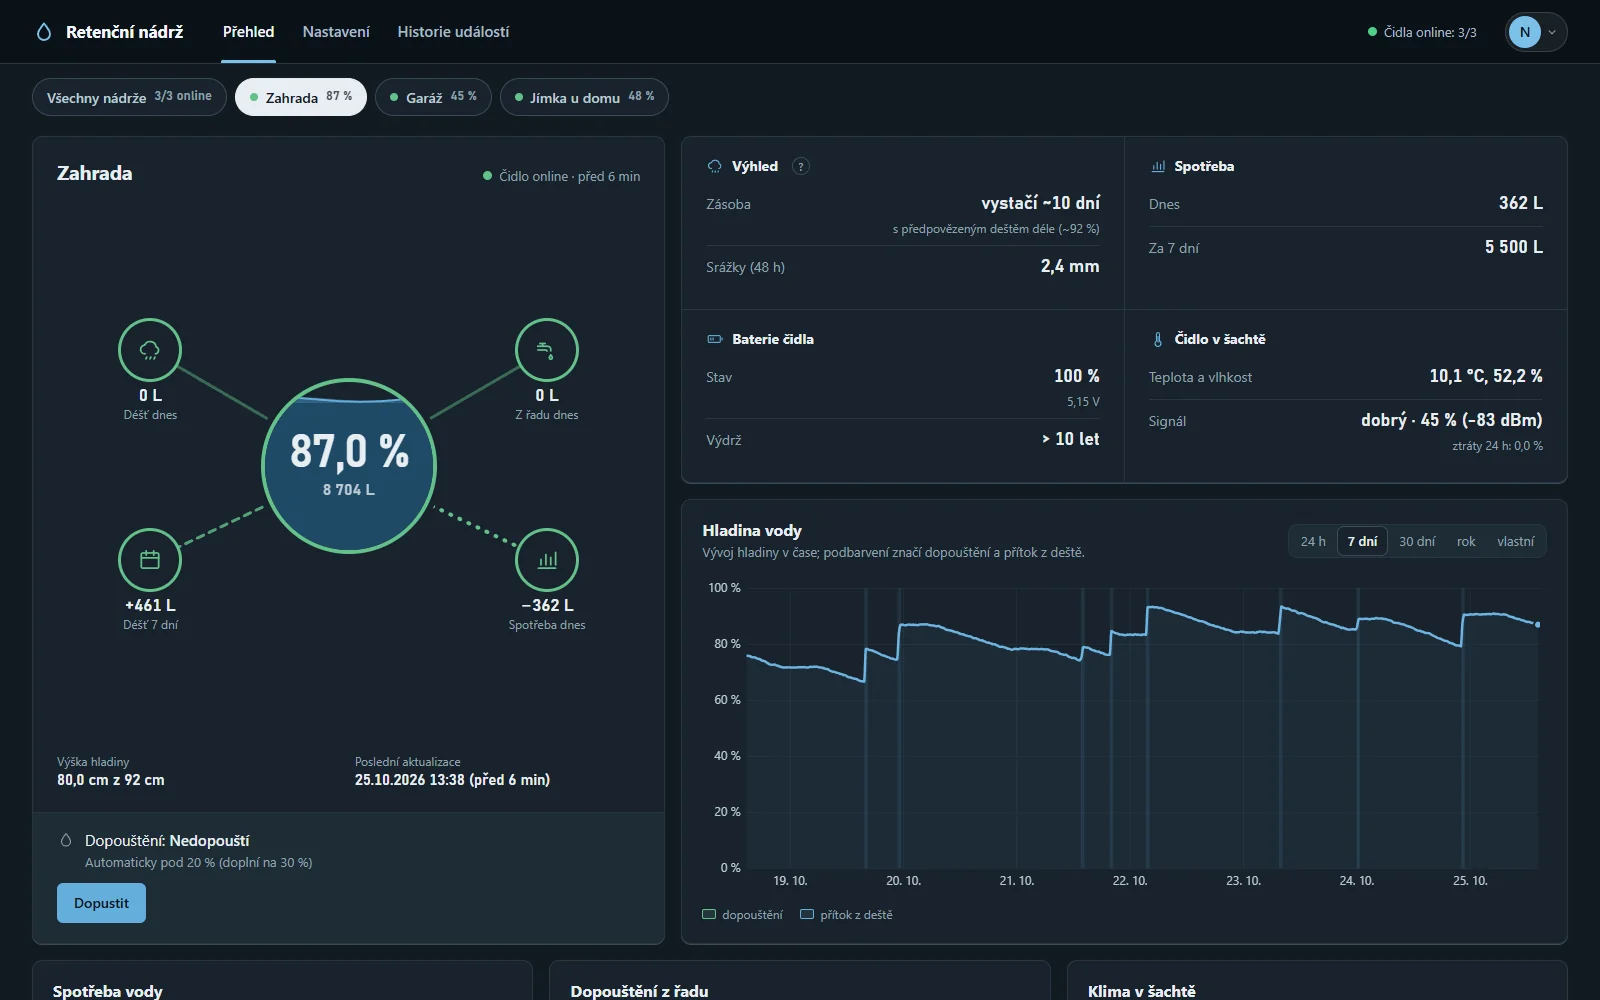
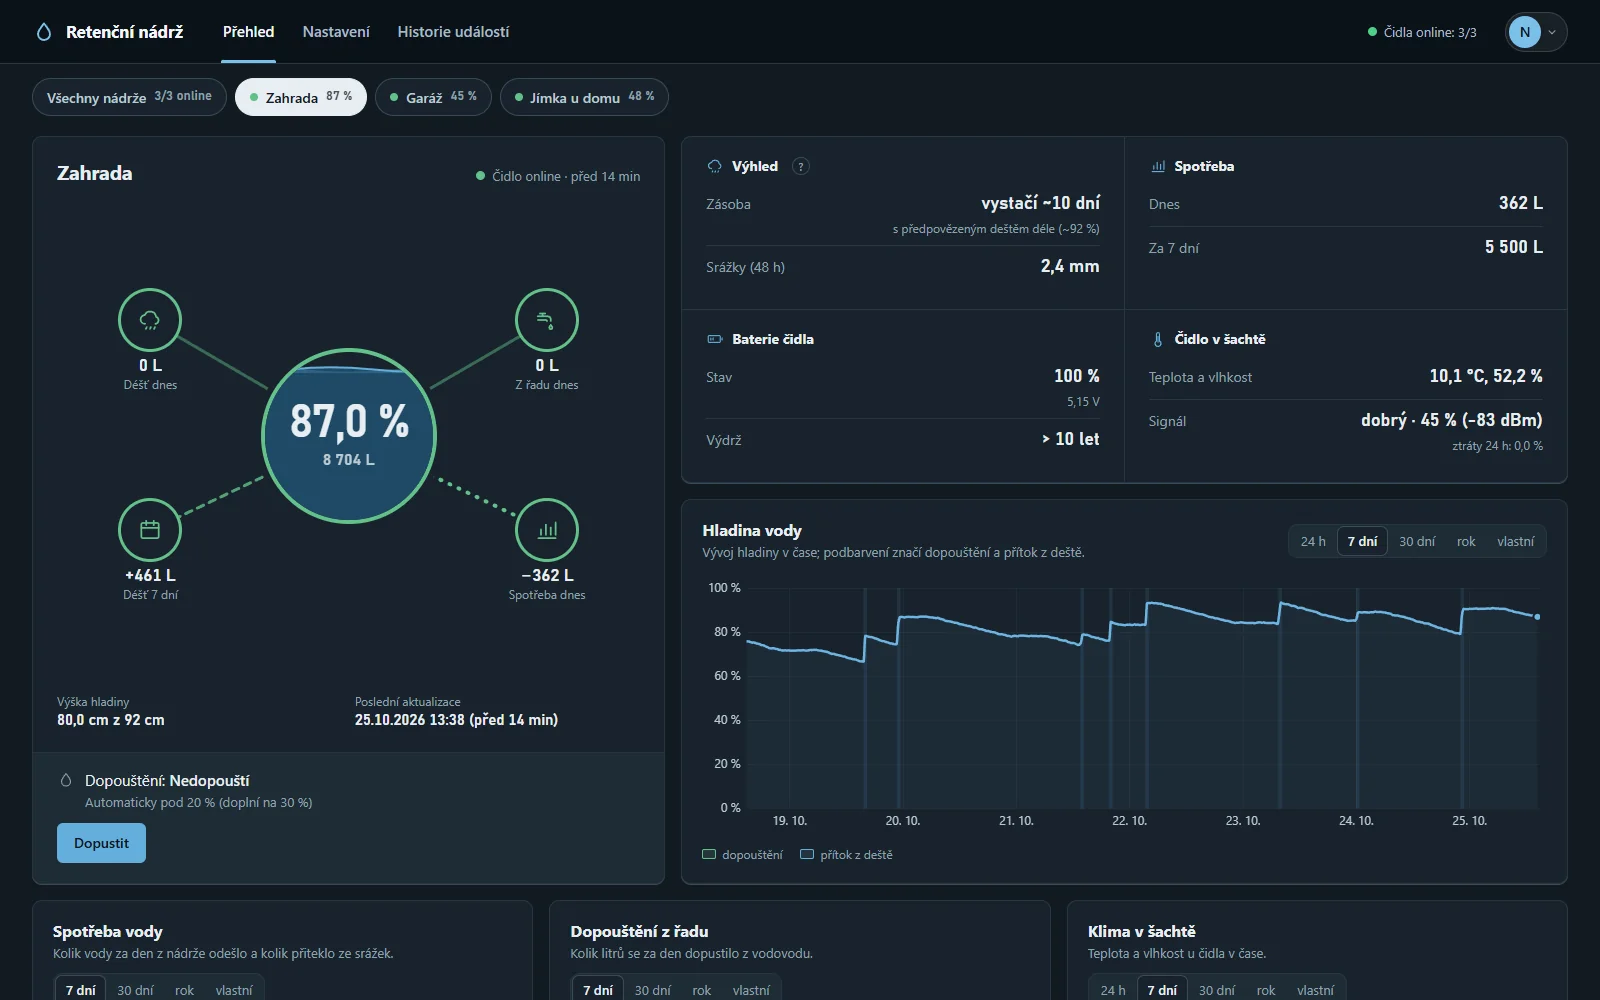
Settings span the full page width, level chart as tall as the other charts, fresh screenshots; version 1.14.3

diff --git a/server/static/css/style.css b/server/static/css/style.css
@@ -517,10 +517,9 @@ body.has-save-bar .app-container { padding-bottom: 110px; }
 .span-2 { grid-column: span 2; }
 .chart-container { position: relative; height: 260px; width: 100%; }
 .chart-container.chart-tall { height: clamp(300px, 45vh, 560px); }
-/* Graf hladiny v pravém sloupci vedle nádrže: dorovná výšku karty nádrže */
+/* Graf hladiny v pravém sloupci vedle nádrže (stejně vysoký jako ostatní grafy) */
 .dash-side { display: flex; flex-direction: column; gap: 16px; min-width: 0; }
 .level-card { flex: 1; display: flex; flex-direction: column; }
-.chart-container.chart-fill { flex: 1; height: auto; min-height: 320px; }
 .chart-legend-extra { display: flex; gap: 18px; margin-top: 10px; font-size: 12px; color: var(--muted); }
 .chart-legend-extra span { display: inline-flex; align-items: center; gap: 6px; }
 .lg { display: inline-block; width: 14px; height: 10px; border-radius: 2px; }
@@ -925,7 +924,6 @@ body.no-refill .refill-only { display: none !important; }
 }
 @media (max-width: 960px) {
     .dash-top { grid-template-columns: minmax(0, 1fr); }
-    .chart-container.chart-fill { flex: none; height: clamp(300px, 45vh, 560px); }
     .live-grid { grid-template-columns: repeat(2, minmax(0, 1fr)); }
 }
 
@@ -962,7 +960,6 @@ body.no-refill .refill-only { display: none !important; }
     .fact-group:nth-child(n+2) { border-top: 1px solid var(--line); }
     .chart-container { height: 220px; }
     .chart-container.chart-tall { height: 260px; }
-    .chart-container.chart-fill { min-height: 280px; height: 280px; }
     .span-2 { grid-column: auto; }
     .tank-meta { padding-top: 12px; gap: 8px; grid-template-columns: minmax(0, 1fr); }
     .level-litres { font-size: 16px; }
@@ -1117,7 +1114,7 @@ body.modal-open { overflow: hidden; }
 .modal-backdrop.busy .modal-prefs { display: none; }
 
 /* --- Nastavení: přepínač Všechny nádrže / nádrž, sloupce se zarovnanými spodky ---- */
-.set-layout { display: grid; grid-template-columns: 220px minmax(0, 960px); gap: 32px; align-items: start; }
+.set-layout { display: grid; grid-template-columns: 220px minmax(0, 1fr); gap: 32px; align-items: start; }
 .set-cols { display: block; }
 .set-col { display: flex; flex-direction: column; gap: 16px; min-width: 0; }
 /* nadpis skupiny karet: výrazná předěl mezi oblastmi nastavení */
@@ -1148,7 +1145,6 @@ body.modal-open { overflow: hidden; }
 .tg-state .status-pill.stale::before { background: var(--amber); }
 .tg-state .status-pill.offline::before { background: var(--red); }
 .tg-state .status-pill.offline { color: var(--red); }
-#nastaveni .page-head { max-width: 1212px; }
 .setup-box { padding: 12px 14px; margin: 8px 0 12px; border: 1px solid var(--line); border-radius: var(--radius-sm); background: var(--surface-2); }
 .setup-steps { margin: 0 0 12px; padding-left: 20px; font-size: 14px; }
 .setup-steps li { margin: 3px 0; }

diff --git a/server/static/index.html b/server/static/index.html
@@ -230,7 +230,7 @@
                             <div class="card-head-text"><h2>Hladina vody</h2><p class="card-desc">Vývoj hladiny v čase; podbarvení značí dopouštění a přítok z deště.</p></div>
                             <div class="range-picker" data-chart="level" data-default="7d" data-kind="time"></div>
                         </div>
-                        <div class="chart-container chart-fill"><canvas id="historyChart"></canvas></div>
+                        <div class="chart-container"><canvas id="historyChart"></canvas></div>
                         <div class="chart-legend-extra">
                             <span class="refill-only"><i class="lg lg-refill"></i>dopouštění</span>
                             <span><i class="lg lg-rain"></i>přítok z deště</span>

diff --git a/server/retencka/__init__.py b/server/retencka/__init__.py
@@ -1,3 +1,3 @@
 """Retenční nádrž – receiver, storage and web server for Raspberry Pi Zero 2 W."""
 
-__version__ = "1.14.2"
+__version__ = "1.14.3"

diff --git a/CHANGELOG.md b/CHANGELOG.md
@@ -3,6 +3,12 @@
 Formát dle [Keep a Changelog](https://keepachangelog.com/en/1.0.0/), verze dle [SemVer](https://semver.org/).
 Postup vydání nové verze: [docs/vydani.md](docs/vydani.md).
 
+## [1.14.3] - 2026-10-25
+
+### Změněno
+- **Nastavení přes celou šířku stránky** (dřív nejvýš 960 px, na širokém monitoru zůstávalo vpravo prázdné místo).
+- **Graf hladiny stejně vysoký jako ostatní grafy**; karta nádrže se výškou srovná s pravým sloupcem.
+
 ## [1.14.2] - 2026-10-25
 
 ### Změněno
